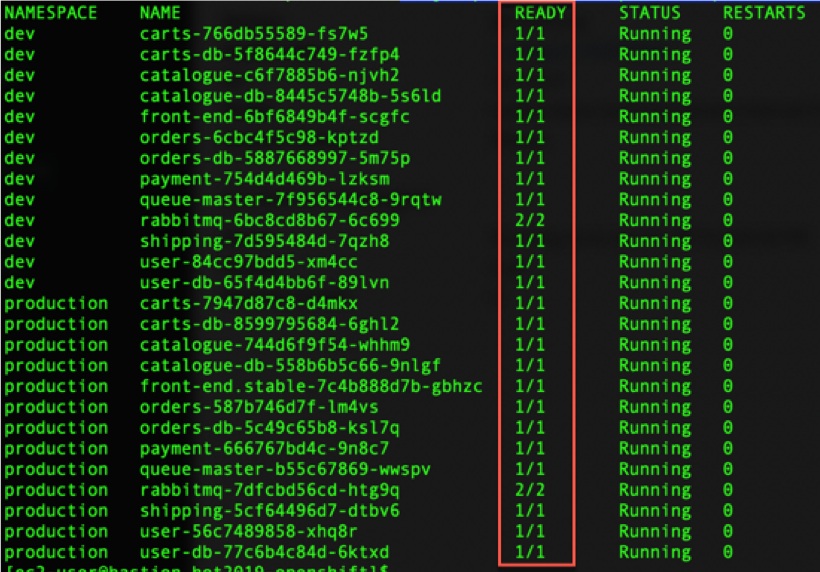
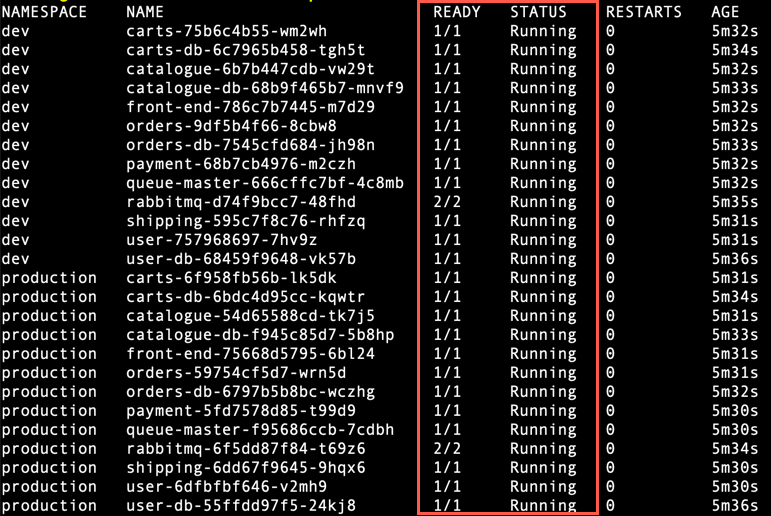
added screenshots, dt config

diff --git a/Exercise_Instructions/02_Deploy_OneAgent_Operator/README.md b/Exercise_Instructions/02_Deploy_OneAgent_Operator/README.md
@@ -32,37 +32,52 @@ For Dynatrace SaaS, the environment ID is your tenant ID. You can find it in the
 Go in the left menu: <i>Settings -> Integration -> Dynatrace API</i>
 
 1. Click on <b>Generate Token</b>
-2. Enter a name for your token (e.g. k8sOperator)
-3. Copy the token value and paste it to your bastion terminal script prompt : API token 
-4. Don't forget to click on the <b>Generate</b> button to save your token
 
-![api_token](assets/api_token.png) 
+    ![generate_api_token](assets/generate_api_token.png)
+
+2. Enter a name for your token (e.g. k8sOperator)
+3. Leave the default options and click <b>Generate</b>
+   
+    ![api_token](assets/api_token.png)     
+
+4. Expand the newly created token, copy the token value and paste it to your bastion terminal script prompt : API token 
+
+    ![api_token_value](assets/api_token_value.png)
+
 
 ### PaaS Token
 
 Go in <i>Settings -> Integration -> Platform as a Service</i>
 1. Either copy the existing InstallerDownload token or click on <b>Generate Token</b>
-2. Enter a name for your token (e.g. k8sOperatorPaaS), click <b>Save</b>
-3. Copy the token value and paste it to your bastion terminal script prompt : PaaS token
+   
+    ![generate_paas_token](assets/generate_paas_token.png)
 
-![paas_token](assets/paas_token.png)
+2. Enter a name for your token (e.g. k8sOperatorPaaS)
+3. click <b>Generate</b>
+   
+    ![paas_token](assets/paas_token.png)
+
+4. Expand the newly created token, copy the token value and paste it to your bastion terminal script prompt : PaaS token
+
+    ![paas_token_value](assets/paas_token_value.png)
+
 
 ### Config Token
 
 This is an additional token you will create. It is not needed for the Operator itself but it will be needed to automate some configurations in Dynatrace. This will, for example, create Web Application monitoring configuration and create Synthetic Browser Monitors to generate traffic to the Sock Shop web site.
 
-- Follow the same procedure as for the API token except you will need to grant different access scope to this token than the default.
+- Follow the same procedure as for the <b><u>API token</u></b> except you will need to grant different access scope to this token than the default.
 
-- Toggle on the following:
+- Toggle on the following options:
 
   - Create and read synthetic monitors, locations, and nodes
   - Read configuration
   - Write configuration
-  
-- Don't forget to click the <b>Save</b> button!
 
     ![config_token](assets/config_token.png)
 
+- Don't forget to click the <b>Generate</b> button!
+- Expand the newly created token, copy the token value and paste it to your bastion terminal script prompt : Config token
 
 ## Deploy the Operator
 
@@ -95,7 +110,7 @@ Create the secret (named `oneagent`) holding the API and PaaS tokens used to aut
 $ kubectl -n dynatrace create secret generic oneagent --from-literal="apiToken=$DT_API_TOKEN" --from-literal="paasToken=$DT_PAAS_TOKEN"
 ```
 
-Execute the following script that will download the Operator Custom Resource definition and populate it with the provided Environment ID.
+Execute the following script that will download the Operator Custom Resource definition and populate it with the SaaS Environment ID you provided in a previous step.
 
 ```sh
 $ ./config-cr.sh
@@ -131,14 +146,19 @@ In the Dynatrace console, look into the <b>Deployment Status</b> and <b>Hosts</b
 
 ![hosts](assets/hosts.png)
 
-Explore the host dashboard.
+Explore the view.
 - Drill down to the containers
 - Drill down to the processes
 
-Explore the <b>Technologies</b> dashboard.
+Explore the <b>Technologies</b> view.
 - This shows the containerized processes running on your nodes, grouped by technology (runtime, framework, vendor)
 - Clicking on a technology display the <b>Process Groups</b> for this technology
 - You can drill down to individual process instance
+  
+Look at the <b>Transactions & services</b> view.
+- No <b>Service</b> will show up
+- This is because the underlying processes are instrumented at startup by the <b>OneAgent</b>
+- Because those processes/containers were already running before we deployed the <b>OneAgent</b>, they need to be restarted to get instrumented
 
 ## Recycle the pods for instrumentation
 
@@ -151,6 +171,10 @@ $ ./recycle-sockshop-app-pods.sh
 ```
 
 ![deployments](assets/deployments.png)
+
+## Validate in Dynatrace
+
+
 
 ## Configure Dynatrace
 
@@ -165,7 +189,68 @@ The Synthetic tests will generate steady traffic to your Sock Shop production we
 $ ./config-dt-webapps-synth.sh 
 ```
 
-Once this script is executed, it will take a few minutes before the Synthetic Monitors are activated and start generating traffic.
+Once this script is executed, take a look at the result in Dynatrace.
+
+- In the menu, go in <i>Applications</i>. You will see two new <i>Web Applications</i> defined : 
+  
+  - Sock Shop - Production
+  - Sock Shop - Dev
+
+    ![applications](assets/applications.png)
+
+In Dynatrace, an <i>Application</i> represents the front-end, what is end-user facing. The information and metrics related to <i>Application</i> are coming from the end-users.
+
+Click on the <i>Sock Shop - Production</i> application and explore. 
+
+Drill-down to <b>Analyze User Sessions</b> to look at the individual user sessions, information about their browser, geographical location and their click path.
+
+The script also created 4 Synthetic Monitors. These are scripts continuously executed from real browsers at a given frequency from specified geographical locations. 
+
+- Synthetic Monitoring is a complement to Real User Monitoring
+- It allows to benchmark execution of critical business transactions in a consistent manner
+- It also measures availability. The test runs all the time, 24 hours by 7 days, even at times when there are no users on your apps. This allows to detect issues proactively, before real users report them.  
+
+- In the menu, go in <i>Synthetic</i>. You will see 4 monitors defined.
+  
+  ![synthetic](assets/synthetic.png)
+
+It will take a few minutes before all 4 Synthetic Monitors show up and a bit longer until they are start generating traffic.
+
+## <b>OPTIONAL... but cool!</b> :metal: Tag User Session names
+
+Dynatrace automatically capture the end user experience of our Shock Shop customers. For a variety of purposes, it would be very helpful to be able to search and find user sessions by their user name. 
+
+Well, this is of course possible with Dynatrace! And it's just a few clicks to configure.
+
+- In the menu, go in <i>Applications</i> then click on <b>Sock Shop - Production</b>
+- Click on the <b>...</b> button (top right)
+  
+  ![application_view](assets/application_view.png)
+
+- Click on <b>Edit</b>
+
+    ![edit_application](assets/edit_application.png)
+
+- Go in <i>Application Settings->User tag</i> and click the <b>Add tag (identifier) rule</b>
+  1. In the <b>Expression type to capture</b> drop-down, select `CSS selector`
+  2. In the <b>CSS selector</b> text box, enter `#howdy > a`
+  3. Toggle on <b>Apply cleanup rule</b>
+  4. In the <b>Regex</b> text box, enter `\s(\w+)$`
+  5. To test the regex, enter a user full name in the <b>Sample input</b> text box. For example: `Dynatrace Perform`. 
+     - Click <b>Test</b>
+     - The output will be `Perform`
+  6. Click <b>Add tag (identifier) rule</b>
+
+    ![add_tag_rule](assets/add_tag_rule.png)
+
+  7. Don't forget to click on the <b>Save</b> button (bottom right)
+   
+    ![save_tag_rule](assets/save_tag_rule.png)
+
+
+## <b>OPTIONAL... but even cooler!</b> :metal: Enable Session Replay
+
+Dynatrace also allows you to record sessions that you can visually replay.
 
 ---
 

diff --git a/Exercise_Instructions/09_Set_up_alert_notifications/README.md b/Exercise_Instructions/09_Set_up_alert_notifications/README.md
@@ -1,8 +1,25 @@
 # Exercise #9 Set up alert notifications
 
-<u>Scenario:</u> The <b>guestbook</b> app is still very early in development. For now the team only want to receive alert notifications by email. 
+<u>Scenario:</u> 
 
-On the other hand, the team in charge of support/ops of the Sock Shop frontend uses a chatops tool such as Slack. They want to receive alert notifications on a Slack channel, but only for alerts affecting the frontend services and running in production.
+The Kubernetes platform admin team work with different tools and they want to receive their alert notifications by email.
+
+On the other hand, the teams in charge of development and support/ops of the Sock Shop services use a chatops tool such as Slack. There are specific Slack channels for each service and also channels for dev and channels for support/ops.
+
+For example: 
+
+- the "carts dev team" only want to receive alerts related to the <b>carts</b> service running in <b>dev</b> on their Slack channel
+  - they don't want to receive anything related to <b>production</b> on that channel
+- the "carts support/ops team" only want to receive <b>production</b> related alerts on their channel and only those involving the <b>carts</b> service
+- both teams are using the Kubernetes platform but they are not in charge of it; this is the platform admin team who does that
+  - in consequence, they don't want to receive infrastructure-only related alerts
+
+## Create an Alerting Profile for the Kubernetes cluster infra
+
+## Create an Alerting Profile for Sock Shop carts dev
+
+## Create an Alerting Profile for Sock Shop carts production
+
 
 ## Create an Alerting Profile for the guestbook app
 

diff --git a/Exercise_Instructions/01_Deploy_Sock_Shop/README.md b/Exercise_Instructions/01_Deploy_Sock_Shop/README.md
@@ -25,17 +25,21 @@ Execute the deployment script:
 $ ./deploy-sockshop.sh
 ```
 ## Validate
-Check the pods deployed in production and in dev
+Check the command output and validate the pods deployed in production and in dev.
+
+Notice the pods status and ready state. They should all be `Running` and `Ready`. 
+
+You can always get the list of Sock Shop pods by running this command: 
+
 ```sh
 $ kubectl get po --all-namespaces -l product=sockshop
 ```
-Notice some pods status and ready state. Watch pods (run the previous command with option `-w` added) until all are running and ready.
 
 ![validation](assets/validate.png)
 
 ## Access the Sock Shop web app
 
-The application deployment created a Service resource of type Load Balancer to expose the frontend service to the public internet. It might take a few minutes before the public IPs become available.
+The application deployment created a <b>Service</b> resource of type <b>Load Balancer</b> to expose the <b>front-end</b> and <b>carts</b> services to the public internet. It might take a few minutes before the public IPs become available.
 You can obtain the app URLs by running this script:
 
 ```sh

diff --git a/Exercise_Instructions/03_Import_k8s_labels_annotations/README.md b/Exercise_Instructions/03_Import_k8s_labels_annotations/README.md
@@ -46,13 +46,13 @@ In the Dynatrace console:
 
 - Navigate to one of the process group, for example the front-end (<i>Technologies -> Node.js -> server.js -> Process group details</i>)
 - Expand the properties. 
-- The imported Kubernetes labels will show as tags and the annotations as properties.
+- The imported Kubernetes <b>labels</b> will show as <b>tags</b> and the <b>annotations</b> as <b>properties</b>.
 
 ![pg_labels_annotations](assets/pg_labels_annotations.png)
 
 ## Search/filter with tags based on labels
 
-- Go in the Technologies or the Services and Transactions view. 
+- Go in the <i>Technologies</i> or the <i>Services and Transactions</i> view. 
 
 - In the Filtered by text box, you will see the available tags that you can select.
 
